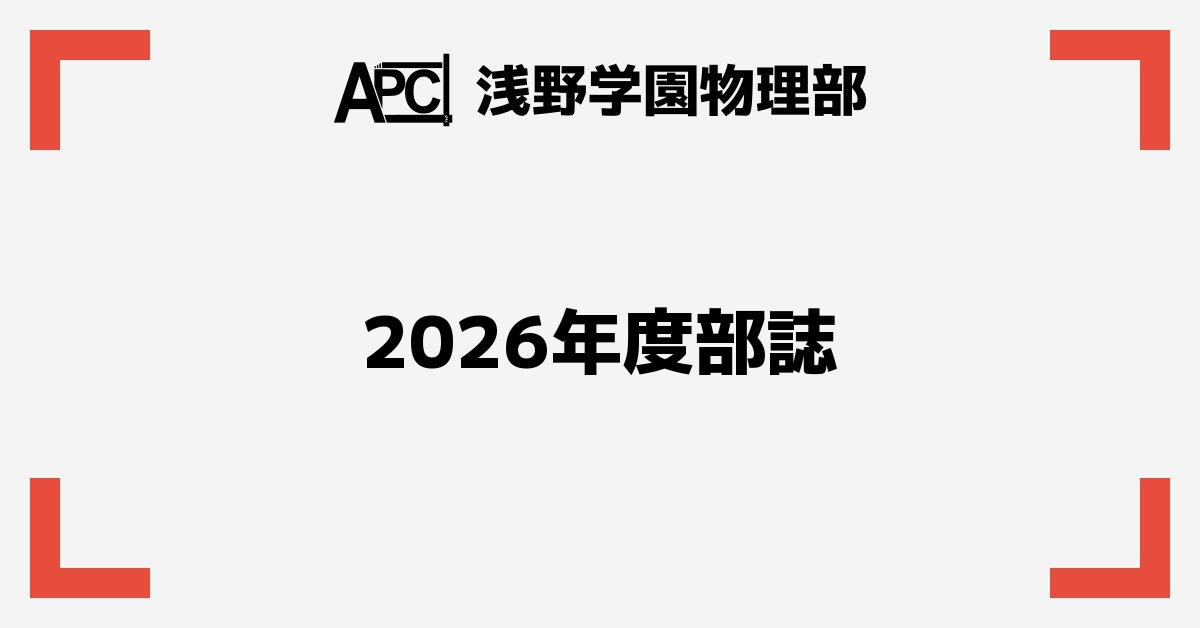
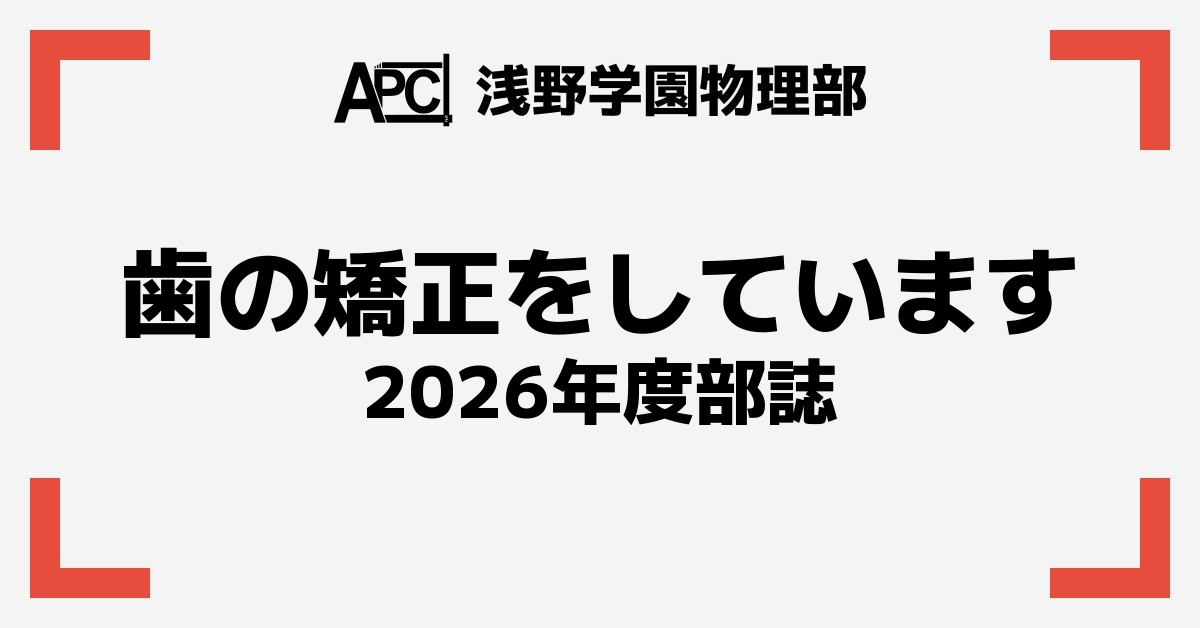
deploy: asanobuturi/asanobuturi@5511ee64665fd833c7bb0a783898abdbf5f06dda

Changed region(s): [[0.0925, 0.3933, 0.8942, 0.6959]]

diff --git a/document/2026/9/index.html b/document/2026/9/index.html
@@ -1,5 +1,5 @@
-<!doctype html><html lang=ja><head><meta charset=utf-8><meta http-equiv=x-ua-compatible content="IE=edge"><meta name=description content><meta name=viewport content="width=device-width,initial-scale=1"><link rel=stylesheet href=/scss/styles.min.4a71567d35f0565714f9b264f620dd2c5abcdd3fd6d8bc1fe2bafa8114c2fe47.css><link rel=icon href=/image/favicon.svg type=image/svg+xml><link rel="icon alternate" href=/image/favicon.ico><meta property="og:site_name" content="浅野学園物理部"><meta property="og:url" content="https://asanobuturi.github.io/document/2026/9/index.html"><meta property="og:title" content="｜浅野学園物理部"><meta property="og:description" content><meta property="og:type" content="website"><meta property="og:image" content="https://asanobuturi.github.io/document/2026/9/thumbnail.jpg"><meta name=twitter:card content="summary_large_image"><meta name=twitter:site content="@Uchi54_APC"><link rel=canonical href=https://asanobuturi.github.io/document/2026/9/><script async src="https://www.googletagmanager.com/gtag/js?id=G-M4YH1E5WC1"></script>
-<script>window.dataLayer=window.dataLayer||[];function gtag(){dataLayer.push(arguments)}gtag("js",new Date),gtag("config","G-M4YH1E5WC1")</script><title>｜浅野学園物理部</title><script type=text/javascript src="https://cdnjs.cloudflare.com/ajax/libs/mathjax/2.7.1/MathJax.js?config=TeX-AMS-MML_HTMLorMML"></script>
+<!doctype html><html lang=ja><head><meta charset=utf-8><meta http-equiv=x-ua-compatible content="IE=edge"><meta name=description content><meta name=viewport content="width=device-width,initial-scale=1"><link rel=stylesheet href=/scss/styles.min.4a71567d35f0565714f9b264f620dd2c5abcdd3fd6d8bc1fe2bafa8114c2fe47.css><link rel=icon href=/image/favicon.svg type=image/svg+xml><link rel="icon alternate" href=/image/favicon.ico><meta property="og:site_name" content="浅野学園物理部"><meta property="og:url" content="https://asanobuturi.github.io/document/2026/9/index.html"><meta property="og:title" content="歯の矯正をしています｜浅野学園物理部"><meta property="og:description" content><meta property="og:type" content="website"><meta property="og:image" content="https://asanobuturi.github.io/document/2026/9/thumbnail.jpg"><meta name=twitter:card content="summary_large_image"><meta name=twitter:site content="@Uchi54_APC"><link rel=canonical href=https://asanobuturi.github.io/document/2026/9/><script async src="https://www.googletagmanager.com/gtag/js?id=G-M4YH1E5WC1"></script>
+<script>window.dataLayer=window.dataLayer||[];function gtag(){dataLayer.push(arguments)}gtag("js",new Date),gtag("config","G-M4YH1E5WC1")</script><title>歯の矯正をしています｜浅野学園物理部</title><script type=text/javascript src="https://cdnjs.cloudflare.com/ajax/libs/mathjax/2.7.1/MathJax.js?config=TeX-AMS-MML_HTMLorMML"></script>
 <link rel=stylesheet href=/scss/highlight.min.5fd4e02a806db4bd8e63d97db9f23a937f07d0d2478a4e37b851c96e75701cf4.css><link rel=stylesheet href=/scss/article.min.5ee3cae303b380c098ecc9cafc8ef5f27c4e7d9864fa43a00560f808df467ab1.css><link rel=stylesheet href=/scss/tableOfContents.min.603245923695f62c9be0618c1b6a10599acbf0f4f5056ffe631acd014b70fd17.css></head><body><nav id=nav-drawer><input id=nav-input type=checkbox class=nav-unshown>
 <label id=nav-open for=nav-input><span class="bar bar1"></span>
 <span class="bar bar2"></span>
@@ -18,7 +18,8 @@
 <img src=/image/icons/angle-right-solid.svg class=inline-image>
 <a href=/document/2026/>2026年度・部誌</a>
 <img src=/image/icons/angle-right-solid.svg class=inline-image>
-<a href=/document/2026/9/></a></div><header id=overview><h1 id=title></h1><div><div class=properties></div><div class=share><span><a href="https://twitter.com/share?ref_src=twsrc%5Etfw" class=twitter-share-button data-related=Uchi54_apc data-lang=ja data-show-count=false>Tweet</a>
-<script async src=https://platform.twitter.com/widgets.js></script></span></div></div></header><article><h1 id=歯の矯正をしています>歯の矯正をしています</h1><p><span class=author>中2　電子工作班</span></p><h2 id=はじめに>はじめに</h2><p>こんにちは。中学２年生の河合です。<br>私は去年(2025年)から現在まで歯科矯正をしています。<br>私の途中経過を部誌にしました。<br></p><h2 id=注意>注意</h2><p>以降に医療器具の話題や画像が出ます。<br>苦手な方は読むのをおすすめしません。<br></p><h2 id=矯正までの準備>矯正までの準備</h2><p>矯正器具を付け始めたのは去年11月からですが、実はその前に治療方針を立てるため、<br>去年10月に歯の撮影を行いました。<br>顔の写真や口腔内の写真を撮影してもらいました。<br></p><p>私の場合上の歯並びが悪く、まず上にワイヤーを付けることになりました。<br>また、私は若干出っ歯気味なのでそれも治してもらうことになりました。</p><h2 id=最初の治療ワイヤーを使った歯列矯正>最初の治療「ワイヤーを使った歯列矯正」</h2><img src=1.jpg width=800>
+<a href=/document/2026/9/>歯の矯正をしています</a></div><header id=overview><h1 id=title>歯の矯正をしています</h1><div><div class=properties><span class=author><img src=/image/icons/user-edit-solid.svg class=inline-image>
+中2 電子工作班 H.K</span></div><div class=share><span><a href="https://twitter.com/share?ref_src=twsrc%5Etfw" class=twitter-share-button data-related=Uchi54_apc data-lang=ja data-show-count=false>Tweet</a>
+<script async src=https://platform.twitter.com/widgets.js></script></span></div></div></header><article><h2 id=はじめに>はじめに</h2><p>こんにちは。中学２年生の河合です。<br>私は去年(2025年)から現在まで歯科矯正をしています。<br>私の途中経過を部誌にしました。<br></p><h2 id=注意>注意</h2><p>以降に医療器具の話題や画像が出ます。<br>苦手な方は読むのをおすすめしません。<br></p><h2 id=矯正までの準備>矯正までの準備</h2><p>矯正器具を付け始めたのは去年11月からですが、実はその前に治療方針を立てるため、<br>去年10月に歯の撮影を行いました。<br>顔の写真や口腔内の写真を撮影してもらいました。<br></p><p>私の場合上の歯並びが悪く、まず上にワイヤーを付けることになりました。<br>また、私は若干出っ歯気味なのでそれも治してもらうことになりました。</p><h2 id=最初の治療ワイヤーを使った歯列矯正>最初の治療「ワイヤーを使った歯列矯正」</h2><img src=1.jpg width=800>
 <i>画像1:ワイヤーの画像</i><br><br><p>最初は乱れた歯並びを正す治療をしました。<br>ワイヤーについて先に説明すると、歯の表面に装置をつけ、ワイヤーを通して持続的な力をかけ、<br>少しずつ歯を動かして歯並びと噛み合わせを整える方法です。<br>ワイヤーは最初はゆるくして、だんだんきつくしていきます。<br>ワイヤーは結構強力なので、歯並びがとても良くなります。<br>乳歯と永久歯が生え変わる時に、永久歯が変なところに生えたやつも定位置に戻りました。<br><br>ですが、ワイヤーの調整で1、2ヶ月に一度歯科医院に向かわないといけないことが注意点です。<br>そして、新しいワイヤーはきつくされているので、特に初日は食べるのが大変だと思います。<br>また、調整する時間は(私の場合)45分ほどです。特に運動部などの部活の人は時間調整を気にする必要があります。<br>私の場合学校終わって家に帰ってすぐ行くとして、17:30や18:00の予約をしています。<br></p><h2 id=次の治療保定装置を使った上顎前突の治療>次の治療「保定装置を使った上顎前突の治療」</h2><img src=2.webp width=800>
 <i>画像2:保定装置の画像</i><br><br>だいたい歯並びが揃うと、次は上顎前突(いわゆる出っ歯)の治療です。<br><br>まずワイヤーを外し、歯の型を取ります。<br>そして次回の通院時に保定装置を受け取り、以降就寝時に着用し、起床時に外します。<br>なので活動時間に歯に何かついていることはないです。また、毎日洗浄して使っています。<br>活動時間中にワイヤーのように食事に不便がないのは良いことです。<br><br><p>注意点は、ワイヤーのように歯医者に時々行くこともあり、さらに自己管理が求められることです。<br>ワイヤーは外せませんが、保定装置はつけたり外したりできます。<br>つい、寝る時忘れてしまうこともあると思いますし、自分もあります。<br>その時、1日2日では特に大きな問題はありませんが、数日つけないと、次つける時痛くなったり治るのが遅くなります。<br></p><h2 id=さいごに>さいごに</h2><p>2026年9月現在保定装置を付けている最中です。<br>そして現在矯正をしている方、矯正は長期的な治療になることが多いですが、根気強く頑張りましょう！<br></p></article><span class=next>次へ<a href=https://asanobuturi.github.io/document/2026/10/>ゲームを作ろう＞</a></span><br><span class=prev>前へ<a href=https://asanobuturi.github.io/document/2026/8/>バイブコーディングについて＞</a></span></div><aside id=sidebar><nav id=sidemenu><div class=side-back><a href=../index.html>記事の一覧へもどる<img src=/image/icons/sign-out-alt-solid.svg class=inline-image></a></div><div class=side-prev><a href=https://asanobuturi.github.io/document/2026/8/><img src=/image/icons/angle-left-solid.svg class=inline-image>バイブコーディングについて</a></div><div class=side-next><a href=https://asanobuturi.github.io/document/2026/10/>ゲームを作ろう<img src=/image/icons/angle-right-solid.svg class=inline-image></a></div></nav><section id=indexblock><header class=indextitle>目次</header><nav id=TableOfContents><ul><li><a href=#はじめに>はじめに</a></li><li><a href=#注意>注意</a></li><li><a href=#矯正までの準備>矯正までの準備</a></li><li><a href=#最初の治療ワイヤーを使った歯列矯正>最初の治療「ワイヤーを使った歯列矯正」</a></li><li><a href=#次の治療保定装置を使った上顎前突の治療>次の治療「保定装置を使った上顎前突の治療」</a></li><li><a href=#さいごに>さいごに</a></li></ul></nav></section></aside></main><footer id=footer><div class=section><nav class=grid><div><label class=headline>CONTENT</label><ul><li><a href=/>Home</a></li><li><a href=/document/>Docs</a></li><li><a href=/game/>Games</a></li><li><a href=/blog/>Blog</a></li><li><a href=/electronic/>Electronic</a></li></ul></div><div><label class=headline>CONTACT</label><ul><li><a target=_blank href=https://x.com/Uchi54_apc>X</a></li><li><a target=_blank href=https://github.com/asanobuturi>GitHub Organization</a></li><li><a target=_blank href=https://github.com/asanobuturi/asanobuturi.github.io>Repository</a></li><li><a target=_blank href=https://github.com/asanobuturi/asanobuturi.github.io/issues>Issues</a></li></ul></div><div><label class=headline>ABOUT</label><ul><li><a href=/about/>About Us</a></li></ul></div></nav></div><hr><div class=section><p class=copyright>Copyright &copy; 2015 - 2023 Asano Physics Club, All Rights Reversed.</p><nav class=sns><a target=_blank href=https://twitter.com/Uchi54_apc><svg xmlns="http://www.w3.org/2000/svg" fill="currentcolor" viewBox="0 0 248 204"><path d="M221.95 51.29c.15 2.17.15 4.34.15 6.53.0 66.73-50.8 143.69-143.69 143.69v-.04c-27.44.04-54.31-7.82-77.41-22.64 3.99.48 8 .72 12.02.73 22.74.02 44.83-7.61 62.72-21.66-21.61-.41-40.56-14.5-47.18-35.07 7.57 1.46 15.37 1.16 22.8-.87-23.56-4.76-40.51-25.46-40.51-49.5v-.64c7.02 3.91 14.88 6.08 22.92 6.32C11.58 63.31 4.74 33.79 18.14 10.71c25.64 31.55 63.47 50.73 104.08 52.76-4.07-17.54 1.49-35.92 14.61-48.25 20.34-19.12 52.33-18.14 71.45 2.19 11.31-2.23 22.15-6.38 32.07-12.26-3.77 11.69-11.66 21.62-22.2 27.93 10.01-1.18 19.79-3.86 29-7.95-6.78 10.16-15.32 19.01-25.2 26.16z"/></svg></a><a target=_blank href=https://github.com/asanobuturi><svg class="w-5 h-5" fill="currentcolor" viewBox="0 0 24 24" aria-hidden="true"><path fill-rule="evenodd" d="M12 2C6.477 2 2 6.484 2 12.017c0 4.425 2.865 8.18 6.839 9.504.5.092.682-.217.682-.483.0-.237-.008-.868-.013-1.703-2.782.605-3.369-1.343-3.369-1.343-.454-1.158-1.11-1.466-1.11-1.466-.908-.62.069-.608.069-.608 1.003.07 1.531 1.032 1.531 1.032.892 1.53 2.341 1.088 2.91.832.092-.647.35-1.088.636-1.338-2.22-.253-4.555-1.113-4.555-4.951.0-1.093.39-1.988 1.029-2.688-.103-.253-.446-1.272.098-2.65.0.0.84-.27 2.75 1.026A9.564 9.564.0 0112 6.844c.85.004 1.705.115 2.504.337 1.909-1.296 2.747-1.027 2.747-1.027.546 1.379.202 2.398.1 2.651.64.7 1.028 1.595 1.028 2.688.0 3.848-2.339 4.695-4.566 4.943.359.309.678.92.678 1.855.0 1.338-.012 2.419-.012 2.747.0.268.18.58.688.482A10.019 10.019.0 0022 12.017C22 6.484 17.522 2 12 2z" clip-rule="evenodd"/></a></nav></div></footer></body></html>

diff --git a/document/2026/index.html b/document/2026/index.html
@@ -11,4 +11,4 @@
 <a class="nav-link isActive" href=/document/index.html>部誌</a>
 <a class=nav-link href=/game/index.html>ゲーム</a>
 <a class=nav-link href=/blog/index.html>ブログ</a>
-<a class=nav-link href=/electronic/index.html>電工の部屋</a><hr><a class=nav-link href=/credit/index.html>クレジット(ライセンス)</a></div></nav><main><a name=top></a><div></h1></div><a name=top></a><div><div class=main-title>2026年度・部誌</div></div><header class=documenttitle><img src=cover.png alt=2026 class=documenticon><section><h1>Positron 2026</h1><p>紙verでは画像が潰れていたものがあったのですが、ここではしっかり見ることができます。</p></section></header><div class=document-page-list><div class=documentcontent><a href=https://asanobuturi.github.io/document/2026/1/ class=link-1>部長挨拶</a><p class=documentdetail>部長より挨拶です。</p><p>著者:高二　部長</p><a href=https://asanobuturi.github.io/document/2026/1/ class=link-2>記事へ>></a></div><div class=documentcontent><a href=https://asanobuturi.github.io/document/2026/2/ class=link-1>たまにの逃亡いつもの帰宅</a><p class=documentdetail></p><p>著者:高一 Y.K</p><a href=https://asanobuturi.github.io/document/2026/2/ class=link-2>記事へ>></a></div><div class=documentcontent><a href=https://asanobuturi.github.io/document/2026/3/ class=link-1>他人の好きな人を知るサイトについて</a><p class=documentdetail></p><p>著者:中2 物理工作班 K.S</p><a href=https://asanobuturi.github.io/document/2026/3/ class=link-2>記事へ>></a></div><div class=documentcontent><a href=https://asanobuturi.github.io/document/2026/4/ class=link-1>クトゥルフ神話TRPG(通称Coc)について</a><p class=documentdetail></p><p>著者:中2の鶏 S.T</p><a href=https://asanobuturi.github.io/document/2026/4/ class=link-2>記事へ>></a></div><div class=documentcontent><a href=https://asanobuturi.github.io/document/2026/5/ class=link-1>日本で最も遠い場所</a><p class=documentdetail></p><p>著者:高二</p><a href=https://asanobuturi.github.io/document/2026/5/ class=link-2>記事へ>></a></div><div class=documentcontent><a href=https://asanobuturi.github.io/document/2026/6/ class=link-1>人を不快にさせる広告を作ろう！！</a><p class=documentdetail></p><p>著者:高校二年生　泰楽澄千</p><a href=https://asanobuturi.github.io/document/2026/6/ class=link-2>記事へ>></a></div><div class=documentcontent><a href=https://asanobuturi.github.io/document/2026/7/ class=link-1>教育の哲学</a><p class=documentdetail></p><p>著者:中2 物理工作班 K.S</p><a href=https://asanobuturi.github.io/document/2026/7/ class=link-2>記事へ>></a></div><div class=documentcontent><a href=https://asanobuturi.github.io/document/2026/8/ class=link-1>バイブコーディングについて</a><p class=documentdetail></p><p>著者:高二</p><a href=https://asanobuturi.github.io/document/2026/8/ class=link-2>記事へ>></a></div><div class=documentcontent><a href=https://asanobuturi.github.io/document/2026/9/ class=link-1></a><p class=documentdetail></p><p></p><a href=https://asanobuturi.github.io/document/2026/9/ class=link-2>記事へ>></a></div><div class=documentcontent><a href=https://asanobuturi.github.io/document/2026/10/ class=link-1>ゲームを作ろう</a><p class=documentdetail></p><p>著者:高二編集担当 S.I</p><a href=https://asanobuturi.github.io/document/2026/10/ class=link-2>記事へ>></a></div></div></main><footer id=footer><div class=section><nav class=grid><div><label class=headline>CONTENT</label><ul><li><a href=/>Home</a></li><li><a href=/document/>Docs</a></li><li><a href=/game/>Games</a></li><li><a href=/blog/>Blog</a></li><li><a href=/electronic/>Electronic</a></li></ul></div><div><label class=headline>CONTACT</label><ul><li><a target=_blank href=https://x.com/Uchi54_apc>X</a></li><li><a target=_blank href=https://github.com/asanobuturi>GitHub Organization</a></li><li><a target=_blank href=https://github.com/asanobuturi/asanobuturi.github.io>Repository</a></li><li><a target=_blank href=https://github.com/asanobuturi/asanobuturi.github.io/issues>Issues</a></li></ul></div><div><label class=headline>ABOUT</label><ul><li><a href=/about/>About Us</a></li></ul></div></nav></div><hr><div class=section><p class=copyright>Copyright &copy; 2015 - 2023 Asano Physics Club, All Rights Reversed.</p><nav class=sns><a target=_blank href=https://twitter.com/Uchi54_apc><svg xmlns="http://www.w3.org/2000/svg" fill="currentcolor" viewBox="0 0 248 204"><path d="M221.95 51.29c.15 2.17.15 4.34.15 6.53.0 66.73-50.8 143.69-143.69 143.69v-.04c-27.44.04-54.31-7.82-77.41-22.64 3.99.48 8 .72 12.02.73 22.74.02 44.83-7.61 62.72-21.66-21.61-.41-40.56-14.5-47.18-35.07 7.57 1.46 15.37 1.16 22.8-.87-23.56-4.76-40.51-25.46-40.51-49.5v-.64c7.02 3.91 14.88 6.08 22.92 6.32C11.58 63.31 4.74 33.79 18.14 10.71c25.64 31.55 63.47 50.73 104.08 52.76-4.07-17.54 1.49-35.92 14.61-48.25 20.34-19.12 52.33-18.14 71.45 2.19 11.31-2.23 22.15-6.38 32.07-12.26-3.77 11.69-11.66 21.62-22.2 27.93 10.01-1.18 19.79-3.86 29-7.95-6.78 10.16-15.32 19.01-25.2 26.16z"/></svg></a><a target=_blank href=https://github.com/asanobuturi><svg class="w-5 h-5" fill="currentcolor" viewBox="0 0 24 24" aria-hidden="true"><path fill-rule="evenodd" d="M12 2C6.477 2 2 6.484 2 12.017c0 4.425 2.865 8.18 6.839 9.504.5.092.682-.217.682-.483.0-.237-.008-.868-.013-1.703-2.782.605-3.369-1.343-3.369-1.343-.454-1.158-1.11-1.466-1.11-1.466-.908-.62.069-.608.069-.608 1.003.07 1.531 1.032 1.531 1.032.892 1.53 2.341 1.088 2.91.832.092-.647.35-1.088.636-1.338-2.22-.253-4.555-1.113-4.555-4.951.0-1.093.39-1.988 1.029-2.688-.103-.253-.446-1.272.098-2.65.0.0.84-.27 2.75 1.026A9.564 9.564.0 0112 6.844c.85.004 1.705.115 2.504.337 1.909-1.296 2.747-1.027 2.747-1.027.546 1.379.202 2.398.1 2.651.64.7 1.028 1.595 1.028 2.688.0 3.848-2.339 4.695-4.566 4.943.359.309.678.92.678 1.855.0 1.338-.012 2.419-.012 2.747.0.268.18.58.688.482A10.019 10.019.0 0022 12.017C22 6.484 17.522 2 12 2z" clip-rule="evenodd"/></a></nav></div></footer></body></html>
+<a class=nav-link href=/electronic/index.html>電工の部屋</a><hr><a class=nav-link href=/credit/index.html>クレジット(ライセンス)</a></div></nav><main><a name=top></a><div></h1></div><a name=top></a><div><div class=main-title>2026年度・部誌</div></div><header class=documenttitle><img src=cover.png alt=2026 class=documenticon><section><h1>Positron 2026</h1><p>紙verでは画像が潰れていたものがあったのですが、ここではしっかり見ることができます。</p></section></header><div class=document-page-list><div class=documentcontent><a href=https://asanobuturi.github.io/document/2026/1/ class=link-1>部長挨拶</a><p class=documentdetail>部長より挨拶です。</p><p>著者:高二　部長</p><a href=https://asanobuturi.github.io/document/2026/1/ class=link-2>記事へ>></a></div><div class=documentcontent><a href=https://asanobuturi.github.io/document/2026/2/ class=link-1>たまにの逃亡いつもの帰宅</a><p class=documentdetail></p><p>著者:高一 Y.K</p><a href=https://asanobuturi.github.io/document/2026/2/ class=link-2>記事へ>></a></div><div class=documentcontent><a href=https://asanobuturi.github.io/document/2026/3/ class=link-1>他人の好きな人を知るサイトについて</a><p class=documentdetail></p><p>著者:中2 物理工作班 K.S</p><a href=https://asanobuturi.github.io/document/2026/3/ class=link-2>記事へ>></a></div><div class=documentcontent><a href=https://asanobuturi.github.io/document/2026/4/ class=link-1>クトゥルフ神話TRPG(通称Coc)について</a><p class=documentdetail></p><p>著者:中2の鶏 S.T</p><a href=https://asanobuturi.github.io/document/2026/4/ class=link-2>記事へ>></a></div><div class=documentcontent><a href=https://asanobuturi.github.io/document/2026/5/ class=link-1>日本で最も遠い場所</a><p class=documentdetail></p><p>著者:高二</p><a href=https://asanobuturi.github.io/document/2026/5/ class=link-2>記事へ>></a></div><div class=documentcontent><a href=https://asanobuturi.github.io/document/2026/6/ class=link-1>人を不快にさせる広告を作ろう！！</a><p class=documentdetail></p><p>著者:高校二年生　泰楽澄千</p><a href=https://asanobuturi.github.io/document/2026/6/ class=link-2>記事へ>></a></div><div class=documentcontent><a href=https://asanobuturi.github.io/document/2026/7/ class=link-1>教育の哲学</a><p class=documentdetail></p><p>著者:中2 物理工作班 K.S</p><a href=https://asanobuturi.github.io/document/2026/7/ class=link-2>記事へ>></a></div><div class=documentcontent><a href=https://asanobuturi.github.io/document/2026/8/ class=link-1>バイブコーディングについて</a><p class=documentdetail></p><p>著者:高二</p><a href=https://asanobuturi.github.io/document/2026/8/ class=link-2>記事へ>></a></div><div class=documentcontent><a href=https://asanobuturi.github.io/document/2026/9/ class=link-1>歯の矯正をしています</a><p class=documentdetail></p><p>著者:中2 電子工作班 H.K</p><a href=https://asanobuturi.github.io/document/2026/9/ class=link-2>記事へ>></a></div><div class=documentcontent><a href=https://asanobuturi.github.io/document/2026/10/ class=link-1>ゲームを作ろう</a><p class=documentdetail></p><p>著者:高二編集担当 S.I</p><a href=https://asanobuturi.github.io/document/2026/10/ class=link-2>記事へ>></a></div></div></main><footer id=footer><div class=section><nav class=grid><div><label class=headline>CONTENT</label><ul><li><a href=/>Home</a></li><li><a href=/document/>Docs</a></li><li><a href=/game/>Games</a></li><li><a href=/blog/>Blog</a></li><li><a href=/electronic/>Electronic</a></li></ul></div><div><label class=headline>CONTACT</label><ul><li><a target=_blank href=https://x.com/Uchi54_apc>X</a></li><li><a target=_blank href=https://github.com/asanobuturi>GitHub Organization</a></li><li><a target=_blank href=https://github.com/asanobuturi/asanobuturi.github.io>Repository</a></li><li><a target=_blank href=https://github.com/asanobuturi/asanobuturi.github.io/issues>Issues</a></li></ul></div><div><label class=headline>ABOUT</label><ul><li><a href=/about/>About Us</a></li></ul></div></nav></div><hr><div class=section><p class=copyright>Copyright &copy; 2015 - 2023 Asano Physics Club, All Rights Reversed.</p><nav class=sns><a target=_blank href=https://twitter.com/Uchi54_apc><svg xmlns="http://www.w3.org/2000/svg" fill="currentcolor" viewBox="0 0 248 204"><path d="M221.95 51.29c.15 2.17.15 4.34.15 6.53.0 66.73-50.8 143.69-143.69 143.69v-.04c-27.44.04-54.31-7.82-77.41-22.64 3.99.48 8 .72 12.02.73 22.74.02 44.83-7.61 62.72-21.66-21.61-.41-40.56-14.5-47.18-35.07 7.57 1.46 15.37 1.16 22.8-.87-23.56-4.76-40.51-25.46-40.51-49.5v-.64c7.02 3.91 14.88 6.08 22.92 6.32C11.58 63.31 4.74 33.79 18.14 10.71c25.64 31.55 63.47 50.73 104.08 52.76-4.07-17.54 1.49-35.92 14.61-48.25 20.34-19.12 52.33-18.14 71.45 2.19 11.31-2.23 22.15-6.38 32.07-12.26-3.77 11.69-11.66 21.62-22.2 27.93 10.01-1.18 19.79-3.86 29-7.95-6.78 10.16-15.32 19.01-25.2 26.16z"/></svg></a><a target=_blank href=https://github.com/asanobuturi><svg class="w-5 h-5" fill="currentcolor" viewBox="0 0 24 24" aria-hidden="true"><path fill-rule="evenodd" d="M12 2C6.477 2 2 6.484 2 12.017c0 4.425 2.865 8.18 6.839 9.504.5.092.682-.217.682-.483.0-.237-.008-.868-.013-1.703-2.782.605-3.369-1.343-3.369-1.343-.454-1.158-1.11-1.466-1.11-1.466-.908-.62.069-.608.069-.608 1.003.07 1.531 1.032 1.531 1.032.892 1.53 2.341 1.088 2.91.832.092-.647.35-1.088.636-1.338-2.22-.253-4.555-1.113-4.555-4.951.0-1.093.39-1.988 1.029-2.688-.103-.253-.446-1.272.098-2.65.0.0.84-.27 2.75 1.026A9.564 9.564.0 0112 6.844c.85.004 1.705.115 2.504.337 1.909-1.296 2.747-1.027 2.747-1.027.546 1.379.202 2.398.1 2.651.64.7 1.028 1.595 1.028 2.688.0 3.848-2.339 4.695-4.566 4.943.359.309.678.92.678 1.855.0 1.338-.012 2.419-.012 2.747.0.268.18.58.688.482A10.019 10.019.0 0022 12.017C22 6.484 17.522 2 12 2z" clip-rule="evenodd"/></a></nav></div></footer></body></html>

diff --git a/document/2026/8/index.html b/document/2026/8/index.html
@@ -50,4 +50,4 @@ AIが開発の大部分を担うようになってしまうことで開発がブ
 エラーへの処理もAIで完結させます。AIへエラーの処理をしてほしい場合は文章ではなくスクショを貼り付けて状況を見せるほうが良いでしょう。</p><p><strong>5.小刻みな修正</strong>
 指示、実行、確認を小刻みに実行し生成物をより良くしていきます。一度に多くのタスクを投げるのではなく1チャット1作業で進めるのが良いでしょう。</p><p><strong>6.保存</strong>
 うまく動いたタイミングでこまめに保存しておくことが良いでしょう。AIはいきなり見当外れな修正をしてしまうことがあるので、巻き返せる保険をかけておくことが重要です。</p><p><strong>7.最終テストと公開</strong>
-最終テストを下うえでVercelなどを使って公開します。セキュリティや個人情報に関わる部分は人間がしっかりチェックするほうがよいでしょう。</p><h2 id=おわりに>おわりに</h2><p>最後まで読んでいただきありがとうございました。ここまで読んでいただければバイブコーディングのことがよくわかったのではないかなと思います。**バイブコーディングをつかって生成した制作物は文化祭当日に展示したいと思います。**なお、この文章には一切AIは使われていません。</p></article><br><span class=prev>前へ<a href=https://asanobuturi.github.io/document/2026/7/>教育の哲学＞</a></span></div><aside id=sidebar><nav id=sidemenu><div class=side-back><a href=../index.html>記事の一覧へもどる<img src=/image/icons/sign-out-alt-solid.svg class=inline-image></a></div><div class=side-prev><a href=https://asanobuturi.github.io/document/2026/7/><img src=/image/icons/angle-left-solid.svg class=inline-image>教育の哲学</a></div></nav><section id=indexblock><header class=indextitle>目次</header><nav id=TableOfContents><ul><li><a href=#はじめに>はじめに</a></li><li><a href=#インフォメーション>インフォメーション</a><ul><li><a href=#バイブコーディングとは>バイブコーディングとは</a></li><li><a href=#知っておくべきこと7選>知っておくべきこと7選</a></li><li><a href=#aiを扱う上でのコツ>AIを扱う上でのコツ</a></li><li><a href=#バイブコーディングの活用事例>バイブコーディングの活用事例</a></li><li><a href=#バイブコーディングの今後の展望>バイブコーディングの今後の展望</a></li><li><a href=#バイブコーディングの今後の課題>バイブコーディングの今後の課題</a></li><li><a href=#制作手順>制作手順</a></li></ul></li><li><a href=#おわりに>おわりに</a></li></ul></nav></section></aside></main><footer id=footer><div class=section><nav class=grid><div><label class=headline>CONTENT</label><ul><li><a href=/>Home</a></li><li><a href=/document/>Docs</a></li><li><a href=/game/>Games</a></li><li><a href=/blog/>Blog</a></li><li><a href=/electronic/>Electronic</a></li></ul></div><div><label class=headline>CONTACT</label><ul><li><a target=_blank href=https://x.com/Uchi54_apc>X</a></li><li><a target=_blank href=https://github.com/asanobuturi>GitHub Organization</a></li><li><a target=_blank href=https://github.com/asanobuturi/asanobuturi.github.io>Repository</a></li><li><a target=_blank href=https://github.com/asanobuturi/asanobuturi.github.io/issues>Issues</a></li></ul></div><div><label class=headline>ABOUT</label><ul><li><a href=/about/>About Us</a></li></ul></div></nav></div><hr><div class=section><p class=copyright>Copyright &copy; 2015 - 2023 Asano Physics Club, All Rights Reversed.</p><nav class=sns><a target=_blank href=https://twitter.com/Uchi54_apc><svg xmlns="http://www.w3.org/2000/svg" fill="currentcolor" viewBox="0 0 248 204"><path d="M221.95 51.29c.15 2.17.15 4.34.15 6.53.0 66.73-50.8 143.69-143.69 143.69v-.04c-27.44.04-54.31-7.82-77.41-22.64 3.99.48 8 .72 12.02.73 22.74.02 44.83-7.61 62.72-21.66-21.61-.41-40.56-14.5-47.18-35.07 7.57 1.46 15.37 1.16 22.8-.87-23.56-4.76-40.51-25.46-40.51-49.5v-.64c7.02 3.91 14.88 6.08 22.92 6.32C11.58 63.31 4.74 33.79 18.14 10.71c25.64 31.55 63.47 50.73 104.08 52.76-4.07-17.54 1.49-35.92 14.61-48.25 20.34-19.12 52.33-18.14 71.45 2.19 11.31-2.23 22.15-6.38 32.07-12.26-3.77 11.69-11.66 21.62-22.2 27.93 10.01-1.18 19.79-3.86 29-7.95-6.78 10.16-15.32 19.01-25.2 26.16z"/></svg></a><a target=_blank href=https://github.com/asanobuturi><svg class="w-5 h-5" fill="currentcolor" viewBox="0 0 24 24" aria-hidden="true"><path fill-rule="evenodd" d="M12 2C6.477 2 2 6.484 2 12.017c0 4.425 2.865 8.18 6.839 9.504.5.092.682-.217.682-.483.0-.237-.008-.868-.013-1.703-2.782.605-3.369-1.343-3.369-1.343-.454-1.158-1.11-1.466-1.11-1.466-.908-.62.069-.608.069-.608 1.003.07 1.531 1.032 1.531 1.032.892 1.53 2.341 1.088 2.91.832.092-.647.35-1.088.636-1.338-2.22-.253-4.555-1.113-4.555-4.951.0-1.093.39-1.988 1.029-2.688-.103-.253-.446-1.272.098-2.65.0.0.84-.27 2.75 1.026A9.564 9.564.0 0112 6.844c.85.004 1.705.115 2.504.337 1.909-1.296 2.747-1.027 2.747-1.027.546 1.379.202 2.398.1 2.651.64.7 1.028 1.595 1.028 2.688.0 3.848-2.339 4.695-4.566 4.943.359.309.678.92.678 1.855.0 1.338-.012 2.419-.012 2.747.0.268.18.58.688.482A10.019 10.019.0 0022 12.017C22 6.484 17.522 2 12 2z" clip-rule="evenodd"/></a></nav></div></footer></body></html>
+最終テストを下うえでVercelなどを使って公開します。セキュリティや個人情報に関わる部分は人間がしっかりチェックするほうがよいでしょう。</p><h2 id=おわりに>おわりに</h2><p>最後まで読んでいただきありがとうございました。ここまで読んでいただければバイブコーディングのことがよくわかったのではないかなと思います。**バイブコーディングをつかって生成した制作物は文化祭当日に展示したいと思います。**なお、この文章には一切AIは使われていません。</p></article><span class=next>次へ<a href=https://asanobuturi.github.io/document/2026/9/>歯の矯正をしています＞</a></span><br><span class=prev>前へ<a href=https://asanobuturi.github.io/document/2026/7/>教育の哲学＞</a></span></div><aside id=sidebar><nav id=sidemenu><div class=side-back><a href=../index.html>記事の一覧へもどる<img src=/image/icons/sign-out-alt-solid.svg class=inline-image></a></div><div class=side-prev><a href=https://asanobuturi.github.io/document/2026/7/><img src=/image/icons/angle-left-solid.svg class=inline-image>教育の哲学</a></div><div class=side-next><a href=https://asanobuturi.github.io/document/2026/9/>歯の矯正をしています<img src=/image/icons/angle-right-solid.svg class=inline-image></a></div></nav><section id=indexblock><header class=indextitle>目次</header><nav id=TableOfContents><ul><li><a href=#はじめに>はじめに</a></li><li><a href=#インフォメーション>インフォメーション</a><ul><li><a href=#バイブコーディングとは>バイブコーディングとは</a></li><li><a href=#知っておくべきこと7選>知っておくべきこと7選</a></li><li><a href=#aiを扱う上でのコツ>AIを扱う上でのコツ</a></li><li><a href=#バイブコーディングの活用事例>バイブコーディングの活用事例</a></li><li><a href=#バイブコーディングの今後の展望>バイブコーディングの今後の展望</a></li><li><a href=#バイブコーディングの今後の課題>バイブコーディングの今後の課題</a></li><li><a href=#制作手順>制作手順</a></li></ul></li><li><a href=#おわりに>おわりに</a></li></ul></nav></section></aside></main><footer id=footer><div class=section><nav class=grid><div><label class=headline>CONTENT</label><ul><li><a href=/>Home</a></li><li><a href=/document/>Docs</a></li><li><a href=/game/>Games</a></li><li><a href=/blog/>Blog</a></li><li><a href=/electronic/>Electronic</a></li></ul></div><div><label class=headline>CONTACT</label><ul><li><a target=_blank href=https://x.com/Uchi54_apc>X</a></li><li><a target=_blank href=https://github.com/asanobuturi>GitHub Organization</a></li><li><a target=_blank href=https://github.com/asanobuturi/asanobuturi.github.io>Repository</a></li><li><a target=_blank href=https://github.com/asanobuturi/asanobuturi.github.io/issues>Issues</a></li></ul></div><div><label class=headline>ABOUT</label><ul><li><a href=/about/>About Us</a></li></ul></div></nav></div><hr><div class=section><p class=copyright>Copyright &copy; 2015 - 2023 Asano Physics Club, All Rights Reversed.</p><nav class=sns><a target=_blank href=https://twitter.com/Uchi54_apc><svg xmlns="http://www.w3.org/2000/svg" fill="currentcolor" viewBox="0 0 248 204"><path d="M221.95 51.29c.15 2.17.15 4.34.15 6.53.0 66.73-50.8 143.69-143.69 143.69v-.04c-27.44.04-54.31-7.82-77.41-22.64 3.99.48 8 .72 12.02.73 22.74.02 44.83-7.61 62.72-21.66-21.61-.41-40.56-14.5-47.18-35.07 7.57 1.46 15.37 1.16 22.8-.87-23.56-4.76-40.51-25.46-40.51-49.5v-.64c7.02 3.91 14.88 6.08 22.92 6.32C11.58 63.31 4.74 33.79 18.14 10.71c25.64 31.55 63.47 50.73 104.08 52.76-4.07-17.54 1.49-35.92 14.61-48.25 20.34-19.12 52.33-18.14 71.45 2.19 11.31-2.23 22.15-6.38 32.07-12.26-3.77 11.69-11.66 21.62-22.2 27.93 10.01-1.18 19.79-3.86 29-7.95-6.78 10.16-15.32 19.01-25.2 26.16z"/></svg></a><a target=_blank href=https://github.com/asanobuturi><svg class="w-5 h-5" fill="currentcolor" viewBox="0 0 24 24" aria-hidden="true"><path fill-rule="evenodd" d="M12 2C6.477 2 2 6.484 2 12.017c0 4.425 2.865 8.18 6.839 9.504.5.092.682-.217.682-.483.0-.237-.008-.868-.013-1.703-2.782.605-3.369-1.343-3.369-1.343-.454-1.158-1.11-1.466-1.11-1.466-.908-.62.069-.608.069-.608 1.003.07 1.531 1.032 1.531 1.032.892 1.53 2.341 1.088 2.91.832.092-.647.35-1.088.636-1.338-2.22-.253-4.555-1.113-4.555-4.951.0-1.093.39-1.988 1.029-2.688-.103-.253-.446-1.272.098-2.65.0.0.84-.27 2.75 1.026A9.564 9.564.0 0112 6.844c.85.004 1.705.115 2.504.337 1.909-1.296 2.747-1.027 2.747-1.027.546 1.379.202 2.398.1 2.651.64.7 1.028 1.595 1.028 2.688.0 3.848-2.339 4.695-4.566 4.943.359.309.678.92.678 1.855.0 1.338-.012 2.419-.012 2.747.0.268.18.58.688.482A10.019 10.019.0 0022 12.017C22 6.484 17.522 2 12 2z" clip-rule="evenodd"/></a></nav></div></footer></body></html>

diff --git a/document/2026/10/index.html b/document/2026/10/index.html
@@ -82,4 +82,4 @@ AI最強。</p><h2 id=ちょっと大きなゲームを作りたくなったら>
 生についていろいろ考えさせられました。</p><h2 id=あとがき>あとがき</h2><p>Unity以外のゲームエンジンには、Unreal Engineというものがあって、『Fortnite』や
 『VALORANT』、『Palworld』などの著名なゲームの多くはこれで作られています。Unityとはまた
 違った特徴があり、難しいらしいです。大学に入ったら(入れたら)挑戦してみようと思います。
-皆さんもぜひゲームを作ってみてください。</p></article><br></div><aside id=sidebar><nav id=sidemenu><div class=side-back><a href=../index.html>記事の一覧へもどる<img src=/image/icons/sign-out-alt-solid.svg class=inline-image></a></div></nav><section id=indexblock><header class=indextitle>目次</header><nav id=TableOfContents><ul><li><a href=#はじめに>はじめに</a></li><li><a href=#unityとは>Unityとは</a></li><li><a href=#学習方法>学習方法</a></li><li><a href=#ちょっと大きなゲームを作りたくなったら>ちょっと大きなゲームを作りたくなったら&mldr;&mldr;</a></li><li><a href=#学習方法その2>学習方法その2</a></li><li><a href=#あとがき>あとがき</a></li></ul></nav></section></aside></main><footer id=footer><div class=section><nav class=grid><div><label class=headline>CONTENT</label><ul><li><a href=/>Home</a></li><li><a href=/document/>Docs</a></li><li><a href=/game/>Games</a></li><li><a href=/blog/>Blog</a></li><li><a href=/electronic/>Electronic</a></li></ul></div><div><label class=headline>CONTACT</label><ul><li><a target=_blank href=https://x.com/Uchi54_apc>X</a></li><li><a target=_blank href=https://github.com/asanobuturi>GitHub Organization</a></li><li><a target=_blank href=https://github.com/asanobuturi/asanobuturi.github.io>Repository</a></li><li><a target=_blank href=https://github.com/asanobuturi/asanobuturi.github.io/issues>Issues</a></li></ul></div><div><label class=headline>ABOUT</label><ul><li><a href=/about/>About Us</a></li></ul></div></nav></div><hr><div class=section><p class=copyright>Copyright &copy; 2015 - 2023 Asano Physics Club, All Rights Reversed.</p><nav class=sns><a target=_blank href=https://twitter.com/Uchi54_apc><svg xmlns="http://www.w3.org/2000/svg" fill="currentcolor" viewBox="0 0 248 204"><path d="M221.95 51.29c.15 2.17.15 4.34.15 6.53.0 66.73-50.8 143.69-143.69 143.69v-.04c-27.44.04-54.31-7.82-77.41-22.64 3.99.48 8 .72 12.02.73 22.74.02 44.83-7.61 62.72-21.66-21.61-.41-40.56-14.5-47.18-35.07 7.57 1.46 15.37 1.16 22.8-.87-23.56-4.76-40.51-25.46-40.51-49.5v-.64c7.02 3.91 14.88 6.08 22.92 6.32C11.58 63.31 4.74 33.79 18.14 10.71c25.64 31.55 63.47 50.73 104.08 52.76-4.07-17.54 1.49-35.92 14.61-48.25 20.34-19.12 52.33-18.14 71.45 2.19 11.31-2.23 22.15-6.38 32.07-12.26-3.77 11.69-11.66 21.62-22.2 27.93 10.01-1.18 19.79-3.86 29-7.95-6.78 10.16-15.32 19.01-25.2 26.16z"/></svg></a><a target=_blank href=https://github.com/asanobuturi><svg class="w-5 h-5" fill="currentcolor" viewBox="0 0 24 24" aria-hidden="true"><path fill-rule="evenodd" d="M12 2C6.477 2 2 6.484 2 12.017c0 4.425 2.865 8.18 6.839 9.504.5.092.682-.217.682-.483.0-.237-.008-.868-.013-1.703-2.782.605-3.369-1.343-3.369-1.343-.454-1.158-1.11-1.466-1.11-1.466-.908-.62.069-.608.069-.608 1.003.07 1.531 1.032 1.531 1.032.892 1.53 2.341 1.088 2.91.832.092-.647.35-1.088.636-1.338-2.22-.253-4.555-1.113-4.555-4.951.0-1.093.39-1.988 1.029-2.688-.103-.253-.446-1.272.098-2.65.0.0.84-.27 2.75 1.026A9.564 9.564.0 0112 6.844c.85.004 1.705.115 2.504.337 1.909-1.296 2.747-1.027 2.747-1.027.546 1.379.202 2.398.1 2.651.64.7 1.028 1.595 1.028 2.688.0 3.848-2.339 4.695-4.566 4.943.359.309.678.92.678 1.855.0 1.338-.012 2.419-.012 2.747.0.268.18.58.688.482A10.019 10.019.0 0022 12.017C22 6.484 17.522 2 12 2z" clip-rule="evenodd"/></a></nav></div></footer></body></html>
+皆さんもぜひゲームを作ってみてください。</p></article><br><span class=prev>前へ<a href=https://asanobuturi.github.io/document/2026/9/>歯の矯正をしています＞</a></span></div><aside id=sidebar><nav id=sidemenu><div class=side-back><a href=../index.html>記事の一覧へもどる<img src=/image/icons/sign-out-alt-solid.svg class=inline-image></a></div><div class=side-prev><a href=https://asanobuturi.github.io/document/2026/9/><img src=/image/icons/angle-left-solid.svg class=inline-image>歯の矯正をしています</a></div></nav><section id=indexblock><header class=indextitle>目次</header><nav id=TableOfContents><ul><li><a href=#はじめに>はじめに</a></li><li><a href=#unityとは>Unityとは</a></li><li><a href=#学習方法>学習方法</a></li><li><a href=#ちょっと大きなゲームを作りたくなったら>ちょっと大きなゲームを作りたくなったら&mldr;&mldr;</a></li><li><a href=#学習方法その2>学習方法その2</a></li><li><a href=#あとがき>あとがき</a></li></ul></nav></section></aside></main><footer id=footer><div class=section><nav class=grid><div><label class=headline>CONTENT</label><ul><li><a href=/>Home</a></li><li><a href=/document/>Docs</a></li><li><a href=/game/>Games</a></li><li><a href=/blog/>Blog</a></li><li><a href=/electronic/>Electronic</a></li></ul></div><div><label class=headline>CONTACT</label><ul><li><a target=_blank href=https://x.com/Uchi54_apc>X</a></li><li><a target=_blank href=https://github.com/asanobuturi>GitHub Organization</a></li><li><a target=_blank href=https://github.com/asanobuturi/asanobuturi.github.io>Repository</a></li><li><a target=_blank href=https://github.com/asanobuturi/asanobuturi.github.io/issues>Issues</a></li></ul></div><div><label class=headline>ABOUT</label><ul><li><a href=/about/>About Us</a></li></ul></div></nav></div><hr><div class=section><p class=copyright>Copyright &copy; 2015 - 2023 Asano Physics Club, All Rights Reversed.</p><nav class=sns><a target=_blank href=https://twitter.com/Uchi54_apc><svg xmlns="http://www.w3.org/2000/svg" fill="currentcolor" viewBox="0 0 248 204"><path d="M221.95 51.29c.15 2.17.15 4.34.15 6.53.0 66.73-50.8 143.69-143.69 143.69v-.04c-27.44.04-54.31-7.82-77.41-22.64 3.99.48 8 .72 12.02.73 22.74.02 44.83-7.61 62.72-21.66-21.61-.41-40.56-14.5-47.18-35.07 7.57 1.46 15.37 1.16 22.8-.87-23.56-4.76-40.51-25.46-40.51-49.5v-.64c7.02 3.91 14.88 6.08 22.92 6.32C11.58 63.31 4.74 33.79 18.14 10.71c25.64 31.55 63.47 50.73 104.08 52.76-4.07-17.54 1.49-35.92 14.61-48.25 20.34-19.12 52.33-18.14 71.45 2.19 11.31-2.23 22.15-6.38 32.07-12.26-3.77 11.69-11.66 21.62-22.2 27.93 10.01-1.18 19.79-3.86 29-7.95-6.78 10.16-15.32 19.01-25.2 26.16z"/></svg></a><a target=_blank href=https://github.com/asanobuturi><svg class="w-5 h-5" fill="currentcolor" viewBox="0 0 24 24" aria-hidden="true"><path fill-rule="evenodd" d="M12 2C6.477 2 2 6.484 2 12.017c0 4.425 2.865 8.18 6.839 9.504.5.092.682-.217.682-.483.0-.237-.008-.868-.013-1.703-2.782.605-3.369-1.343-3.369-1.343-.454-1.158-1.11-1.466-1.11-1.466-.908-.62.069-.608.069-.608 1.003.07 1.531 1.032 1.531 1.032.892 1.53 2.341 1.088 2.91.832.092-.647.35-1.088.636-1.338-2.22-.253-4.555-1.113-4.555-4.951.0-1.093.39-1.988 1.029-2.688-.103-.253-.446-1.272.098-2.65.0.0.84-.27 2.75 1.026A9.564 9.564.0 0112 6.844c.85.004 1.705.115 2.504.337 1.909-1.296 2.747-1.027 2.747-1.027.546 1.379.202 2.398.1 2.651.64.7 1.028 1.595 1.028 2.688.0 3.848-2.339 4.695-4.566 4.943.359.309.678.92.678 1.855.0 1.338-.012 2.419-.012 2.747.0.268.18.58.688.482A10.019 10.019.0 0022 12.017C22 6.484 17.522 2 12 2z" clip-rule="evenodd"/></a></nav></div></footer></body></html>
